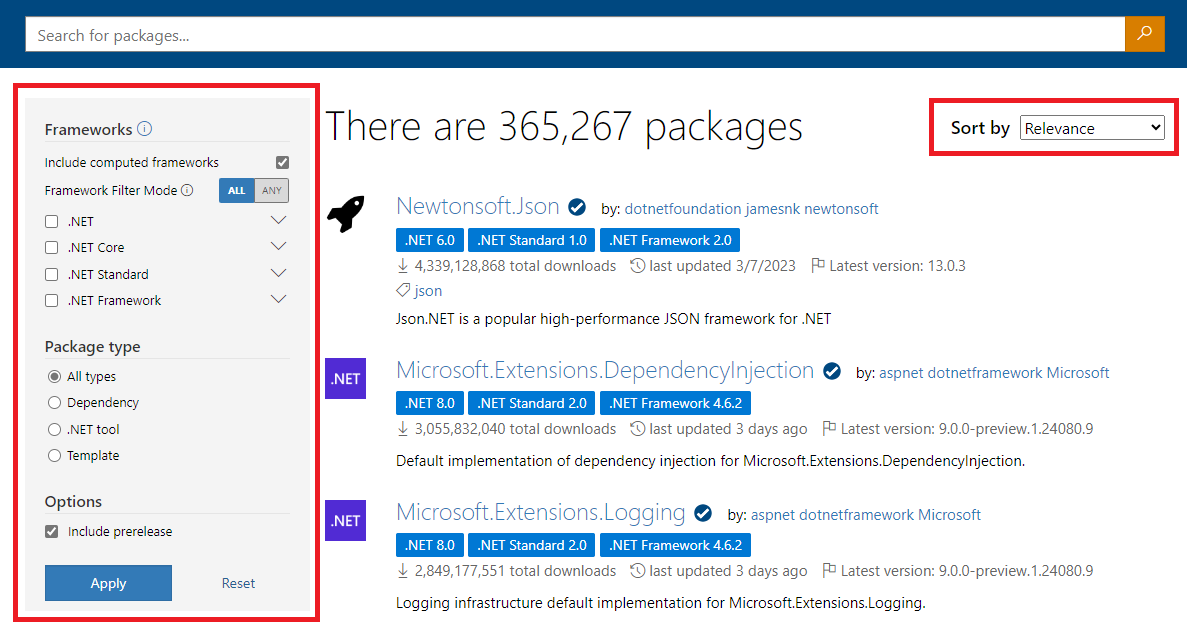
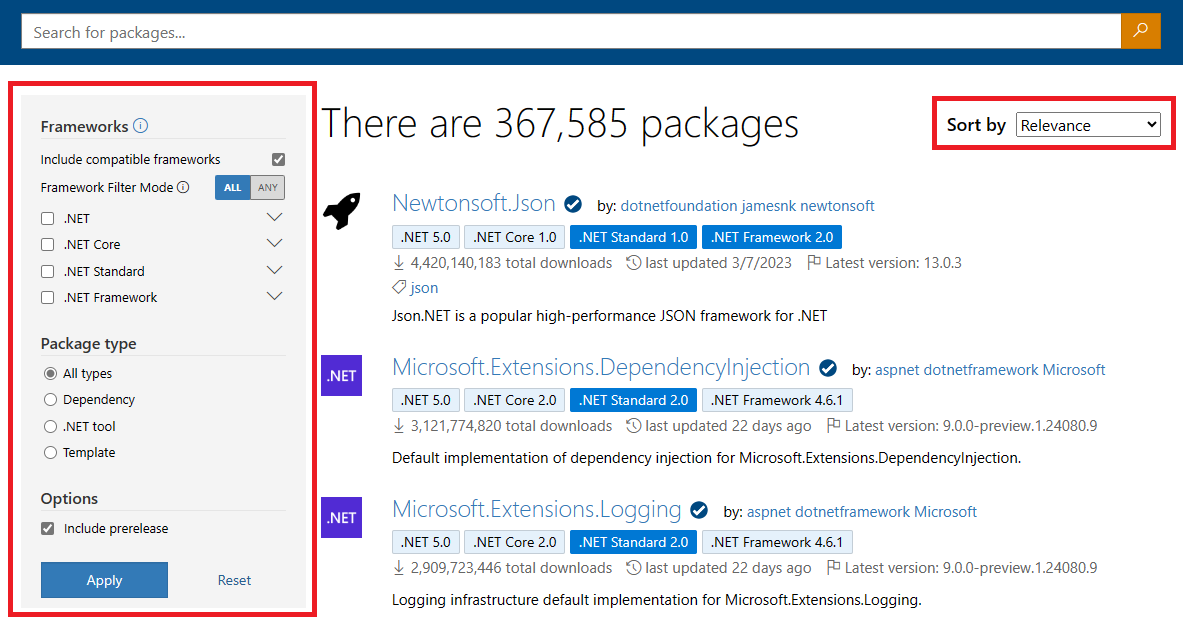
Added framework badge info

Changed region(s): [[0.0, 0.0, 1.0, 0.9968], [0.7608, 0.151, 1.0, 0.2719], [0.1826, 0.9062, 0.213, 0.9364]]

diff --git a/docs/consume-packages/Finding-and-Choosing-Packages.md b/docs/consume-packages/Finding-and-Choosing-Packages.md
@@ -34,7 +34,7 @@ Use the **Frameworks** filters to show packages targeting specific .NET framewor
   ![Screenshot that shows the Framework filters on nuget.org.](media/Finding-09-FrameworkFilterPanel.png)
 
 - Expanding one of these framework generations with the arrows on the right will show you individual Target Framework Monikers (TFMs) that you can filter your results by. For example, selecting `net5.0` will return packages compatible with the '.NET 5.0' framework.
-- By default, packages are filtered by their expanded list of computed compatible frameworks. If you want to filter packages purely by the asset frameworks they explicitly target, deselect the **Include computed frameworks** checkbox.
+- By default, packages are filtered by their expanded list of computed compatible frameworks. If you want to filter packages purely by the asset frameworks they explicitly target, deselect the **Include compatible frameworks** checkbox.
 - Combining multiple framework filters will show you search results that match all of your selected filters, i.e. packages that fall in the intersection of your selections. For example, selecting `netcoreapp3.1` and `net45` together will show packages that target **both** '.NET Core 3.1' and '.NET Framework 4.5'. Selecting the `.NET Core` framework generation checkbox and the `net45` checkbox together will return packages that target '.NET Framework 4.5', and at least one of the '.NET Core' TFMs (`netcoreapp1.0` through `netcoreapp3.1`).
   - Alternatively, if you want to see packages matching **any one** of your framework filters, select the **Any** radio button on the **Framework Filter Mode** option. Now, selecting `netcoreapp3.1` and `net5.0` will show packages that target **either** '.NET Core 3.1' or '.NET 5.0'. Selecting the `netcoreapp3.1` checkbox and the `.NET` framework generation checkbox together will return packages that target '.NET Core 3.1' or any one of the '.NET' TFMs (`net5.0` through `net8.0`).
 - You can learn more on how to evaluate a package's supported frameworks and its compatibility with your project [here](#determine-supported-frameworks).
@@ -81,6 +81,14 @@ Package search queries at nuget.org, from the NuGet CLI, and from within Visual 
 NuGet installs a package into a project only if the package's supported .NET frameworks include the project's target frameworks. If the package isn't compatible, NuGet issues an error.
 
 There are several ways to determine the frameworks that a package supports:
+
+- On the search page, a package's supported frameworks will appear as badges below the package ID. These badges show the lowest supported framework versions from the **.NET**, **.NET Core**, **.NET Standard**, and **.NET Framework** generations. The package will be compatible with any framework version that's equal to or higher than the badge version shown.
+
+  'Dark blue' badges represent explicitly targeted frameworks, while 'light blue' badges represent computed compatible frameworks.
+
+  Clicking on a badge will redirect you to the package's details page on nuget.org. The **Frameworks** tab on the package's page will show the full list of supported frameworks.
+
+  ![Screenshot of the Framework badges on nuget.org's search page.](media/Finding-10-FrameworkBadgesInSearch.png)
 
 - On the package's page at nuget.org, supported frameworks appear below the package ID and on the **Frameworks** tab, but not all packages show supported frameworks.
 
